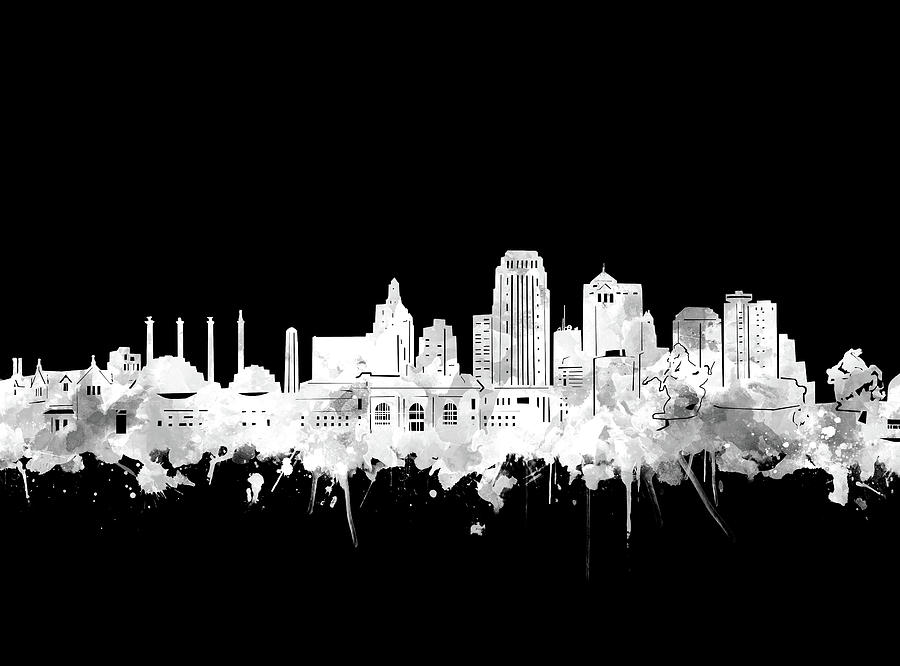
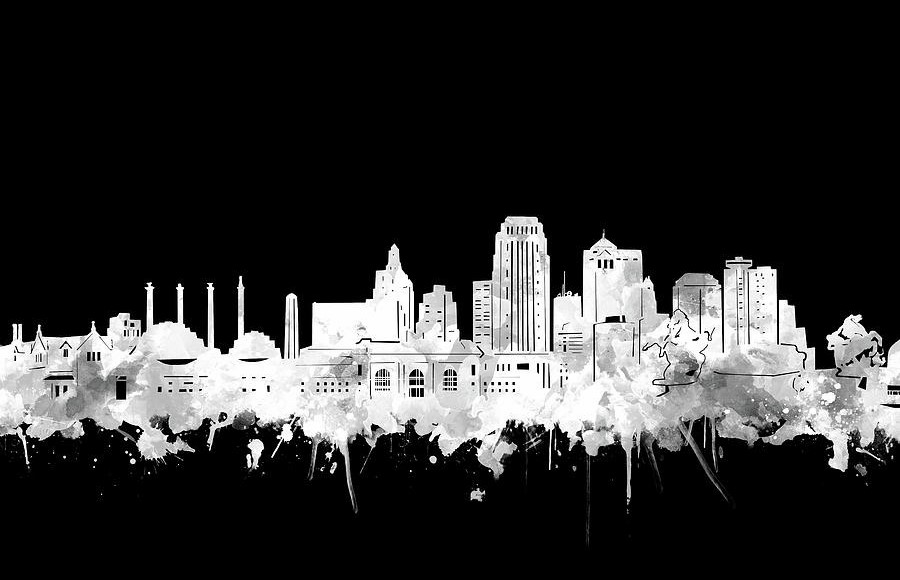
Add files via upload

Changed region(s): [[0.0, 0.3724, 1.0, 0.869]]

diff --git a/index.html b/index.html
@@ -2,9 +2,11 @@
 <html lang="en-us">
 <head>
 	<title>https://gwenmcd12.github.io/</title>
+	<link rel="shortcut icon" type="image/x-icon" href="favicon.ico" />
 
 	<meta charset="UTF-8">
 	<meta name="viewport" content="width=device-width, initial-scale=1, shrink-to-fit=no">
+
 
 <!-- Carousel -->
 	<link rel="stylesheet" href="https://maxcdn.bootstrapcdn.com/bootstrap/3.4.0/css/bootstrap.min.css">
@@ -14,16 +16,14 @@
 	<link rel="stylesheet" href="https://maxcdn.bootstrapcdn.com/bootstrap/3.3.7/css/bootstrap.min.css">
 <!-- LinkedIn,GitHub Icons -->
 	<link rel='stylesheet' href='https://use.fontawesome.com/releases/v5.7.0/css/all.css' integrity='sha384-lZN37f5QGtY3VHgisS14W3ExzMWZxybE1SJSEsQp9S+oqd12jhcu+A56Ebc1zFSJ' crossorigin='anonymous'>
-<!-- Document CSS -->
-	<link rel="stylesheet" type="text/css" href="style.css">
 <!-- Font -->
 	<link href="https://fonts.googleapis.com/css?family=Titillium+Web" rel="stylesheet">
-
+<!-- Document CSS -->
+	<link rel="stylesheet" type="text/css" href="style.css">
 	
 </head>
 
 <Body>
-
 <div class="container">
 	<h1></h1>
 
@@ -40,40 +40,39 @@
 <div class="carousel-inner">
 			  
 	<div class="item active"  id="s1">
-		<img src="me_sal5.jpg" class="pic" alt="intro" style="width:100%;">
+		<img src="me_sal5.jpg" class="pic" alt="intro" >
 		<div class="carousel-caption">
-		<h3>Gwen Wadley</h3>
+		<h1>Gwen Wadley</h1>
 		<p>Welcome to my Little Corner of the Internet</p>
 		</div>
 	</div>
 			  
 	<div class="item"  id="s2">
-		<img src="northern_lights.jpg" class="pic" alt="info" style="width:100%;">
+		<img src="dots1920X1200.jpg" class="pic" alt="info">
 		<div class="carousel-caption">
-		<h3>Language, Programs, Libraries, & Resume</h3>
-		<p2>
-			Icons of skills
-		</p2>
+		<h2>Language, Programs, Libraries, & Resume</h2>
+
+		<iframe src="icon.html" class="framein" height="500" width="800" allowfullscreen="" frameborder="0" ></iframe>
+		
 		<p><a href="resume_040419.pdf">Resume Here</a></p>
-		<p1>words</p1>
 		</div>
 	</div>
 				  
 	<div class="item" id="s3">
-		<img src="kc5.jpg" class="pic" alt="holla" style="width:100%;">
+		<img src="kc5.jpg" class="pic" alt="holla">
 		<div class="carousel-caption">
 		<h3>Contact</h3>
-		<p2>
-			<p5><a href="https://www.linkedin.com/in/gwenwadley/"
-			target="_blank" ><i class='fab fa-linkedin icon2'></i></a>
 
-			<a href="https://github.com/GwenMcD12"
-			target="_blank" ><i class='fab fa-github icon2'></i></a></p5>
-		<br>
-			<p5><a href="mailto:GwenWadley12@GMail.com?subject = Feedback&body = Message">
-					<i class="glyphicon glyphicon-envelope icon2"></i></a>
-			</p5>
-		</p2>			
+		<div id="linked_icons">
+			<a href="https://www.linkedin.com/in/gwenwadley/"target="_blank" ><i class='fab fa-linkedin icon2'></i></a>
+			<h5>LinkedIn</h5>
+
+			<a href="https://github.com/GwenMcD12"target="_blank" ><i class='fab fa-github icon2'></i></a>
+			<h5>Github</h5>
+
+			<a href="mailto:GwenWadley12@GMail.com?subject = Feedback&body = Message"><i class="glyphicon glyphicon-envelope icon2"></i></a>
+			<h5>E-Mail</h5>
+		</div>			
 		</div>
 	</div>			
 </div>

diff --git a/index2.html b/index2.html
@@ -1,0 +1,73 @@
+/*	<p1></p1>
+	<h1 id='main_heading' class='titles1'>Gwen's Portfolio</h1>
+	<img id='headshot1' class='image_me' src='headshot1.png'>
+	<h2 id='subheading' class='titles1'>I am a Data Business Analyst</h2>
+	<div>
+
+
+
+
+	</div>
+<ul>
+	<li><a href="https://github.com/GwenMcD12"
+		target="_bio" >GitHub</a></li>
+
+	<li><a href="https://www.linkedin.com/in/gwenwadley/"
+	target="_bio">LinkedIn</a></li>
+
+	<li><a href="GwenWadley12@gmail.com"
+	target="_bio">E-Mail</a></li>
+	</ul>
+*/
+
+.image_me {
+    border: 1px solid #ddd;
+    border-radius: 4px;
+    padding: 5px;
+    height: 300px;
+    width: 25%;
+  }
+
+  div.carousel-caption{
+    margin-bottom: 15px;
+    /* Change the size of your font to 60 pixels high. */
+    font-size: 60px;
+    /* This will color the heading font white. */
+    color: white;
+    /* Align the text to the center of its enclosing element (e.g. div). */
+    text-align: center;
+    vertical-align:text-top;
+  }
+
+
+  .icon2{
+    float:left;
+    width: 178px;
+    text-align:center;
+    padding-right: 30px;
+    padding-top: 20px;
+}
+.icon2{
+    display: inline-block;
+    margin-left:auto;
+    margin-right:auto;
+}
+}
+.icon2{
+    display: block;
+}
+-webkit-align-content: center;
+align-content: center;
+
+container icon html 
+<div class="container">
+        <img src="CSS.png" alt="" class="image">
+        <div class="overlay">
+        <div class="text">CSS</div>
+        </div>
+    </div>
+
+
+  <a href="file:///C:/Users/gwenw/Desktop/GwenMcD12.github.io-Portfolio-master/index.html0" title="section1">Me</a>
+  <a href="file:///C:/Users/gwenw/Desktop/GwenMcD12.github.io-Portfolio-master/index.html1" title="section2">Resume</a>
+  <a href="file:///C:/Users/gwenw/Desktop/GwenMcD12.github.io-Portfolio-master/index.html2" title="section3">Contact</a>

diff --git a/style.css b/style.css
@@ -2,36 +2,68 @@ body {
     background-color: Black;
     font-family:'Titillium Web', sans-serif;  
 }
+h1{
+    font-weight: 900;
+}
+h2{
+    font-weight: 900;
+    font-size: 40px;
+}
 h3 {
     text-align: center;
     color:white;
     font-family: ;
     font-weight: 900;
     font-size: 50px;
+    padding-bottom: 10px;
 }
 p{
     font-size: 30px;
 }
 .carousel-caption{
     top: 50%;
-    transform: translateY(-95%); 
+    transform: translateY(-98%); 
 }
     .pic{
-    opacity: 0.5;
+    opacity: 0.4;
+    width: 1250px;
+    height: 650px;
+    object-fit: contain;
     }
     .pwords{
     opacity: 1;
     }
+.framein{
+    .video-container {
+        position: relative;
+        padding-bottom: 56.25%;
+        padding-top: 35px;
+        height: 0;
+        overflow: hidden;
+    }
+}
 .icon2{
-    padding-right: 30px;
-    padding-top: 20px;
+    color:white;
+}
+.icon2:hover{
+    color: hotpink;
 }
     .fa-linkedin{
-    font-size: 75px;
+    font-size: 76px;
     }
     .fa-github{
-    font-size: 75px;
+    font-size: 77px;
     }
     .glyphicon-envelope{
-        font-size: 75px;
+        font-size: 73px;
     }
+#linked_icons {
+    margin: auto;
+    width: 70%;
+    padding: 5px;
+    line-height: 2.7;
+    -webkit-columns: 60px 3;
+    }
+h5{
+    text-align:center;
+}

diff --git a/iconstyle.css b/iconstyle.css
@@ -1,0 +1,82 @@
+
+/*image galery*/
+
+div.gallery img {
+  width: 100%;
+  height: auto;
+}
+
+
+
+* {
+  box-sizing: border-box;
+}
+
+.responsive {
+  padding: 20px;
+  display:inline-block;
+  width: 16.6555555%;
+}
+
+@media only screen and (max-width: 700px) {
+  .responsive {
+    width: 33.333333%;
+    margin: 6px 0;
+  }
+}
+
+@media only screen and (max-width: 500px) {
+  .responsive {
+    width: 100%;
+  }
+}
+
+.clearfix:after {
+  content: "";
+  display: table;
+  clear: both;
+}
+
+
+
+/* Image Overlay */
+
+.container {
+  position: relative;
+  width: 50%;
+}
+
+.image {
+  display: block;
+  width: 100%;
+  height: auto;
+}
+
+.overlay {
+  position: absolute;
+  top: 0;
+  bottom: 0;
+  left: 0;
+  right: 0;
+  height: 100%;
+  width: 100%;
+  opacity: 0;
+  transition: .5s ease;
+  background-color: hotpink;
+}
+
+.container:hover .overlay {
+  opacity: 1;
+}
+
+.text {
+  color: white;
+  font-size: 20px;
+  position: absolute;
+  top: 50%;
+  left: 50%;
+  -webkit-transform: translate(-50%, -50%);
+  -ms-transform: translate(-50%, -50%);
+  transform: translate(-50%, -50%);
+  text-align: center;
+}
